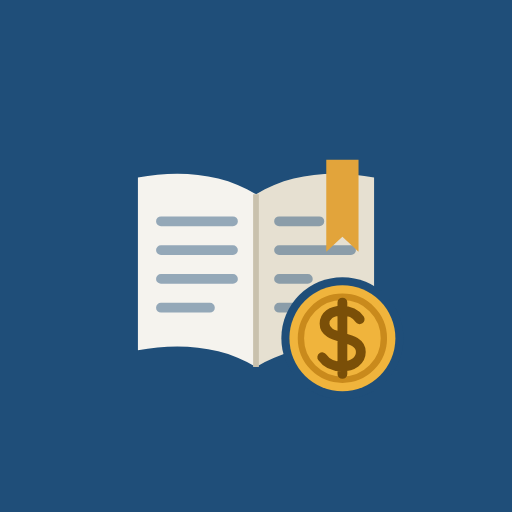
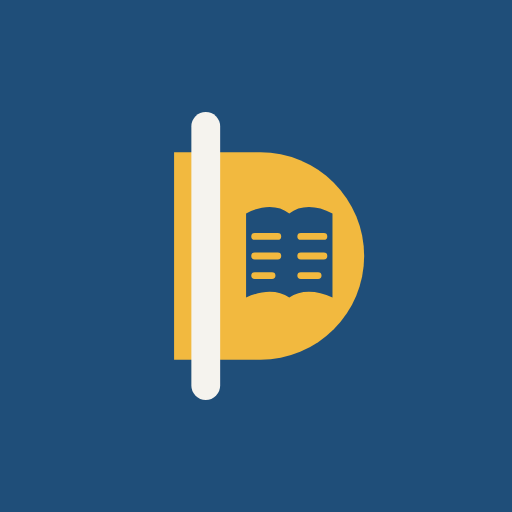
Daftar Ousnou 1.2.0 : nouvelle identité, monogramme D (livre ouvert dans le D, trait du $ qui le traverse) pour l'icône, mot-symbole D + « aftar » dans l'en-tête

Changed region(s): [[0.25, 0.2188, 0.7812, 0.7812]]

diff --git a/app/index.html b/app/index.html
@@ -262,9 +262,9 @@ header .ctl>.btn,header .ctl>.devsel,header .ctl .expmenu>.btn{height:44px;displ
 }
 /* logo */
 h1.titre{display:flex;align-items:center;gap:10px}
-.logo{width:40px;height:40px;border-radius:999px;flex:none}
-/* nom de l'application : logo collé au nom en lettres dorées, ensemble dans une pastille arrondie aux couleurs du logo (identique en mode sombre) */
-.nomapp{display:inline-flex;align-items:center;gap:8px;padding:3px 18px 3px 3px;border-radius:999px;background:linear-gradient(180deg,#26598a,#1f4e79);color:#f2b93f;font-weight:700;letter-spacing:.03em;line-height:1.25;box-shadow:inset 0 0 0 1.5px #c98a1c,0 1px 3px rgba(0,0,0,.18)}
+.motd{height:1.04em;width:auto;flex:none;margin-right:.02em;vertical-align:-.14em;overflow:visible}
+/* mot-symbole « Daftar » : le D monogramme (D + livre + trait du $) suivi de « aftar » en lettres dorées, dans une pastille arrondie aux couleurs du logo (identique en mode sombre). L'icône, elle, est le monogramme seul. */
+.nomapp{display:inline-block;white-space:nowrap;font-size:1.3em;padding:2px 18px 4px 12px;border-radius:999px;background:linear-gradient(180deg,#26598a,#1f4e79);color:#f2b93f;font-weight:700;letter-spacing:.03em;line-height:1.25;box-shadow:inset 0 0 0 1.5px #c98a1c,0 1px 3px rgba(0,0,0,.18)}
 /* journal : niveau de dépense de chaque jour (vert bas, jaune moyen, rouge élevé), écrit en plus de la couleur */
 :root{--jb:#256940;--jb-bg:#e7f3eb;--jm:#8a5600;--jm-bg:#fbf0d6;--jh:#b4362b;--jh-bg:#f9e2de}
 @media (prefers-color-scheme:dark){:root:not([data-theme="light"]){--jb:#6cc08f;--jb-bg:#1d3326;--jm:#e0b058;--jm-bg:#3a3020;--jh:#ef7a6b;--jh-bg:#3e2420}}
@@ -480,7 +480,7 @@ tr.solde td{color:var(--muted)}
 
 <main class="wrap" id="contenu">
   <header>
-    <h1 class="titre"><span class="nomapp"><img src="daftar-192.png" alt="" class="logo" width="40" height="40">Daftar</span></h1>
+    <h1 class="titre"><span class="nomapp" role="img" aria-label="Daftar"><svg class="motd" viewBox="16 6 36 52" aria-hidden="true" focusable="false"><path d="M17 14h15a18 18 0 0 1 0 36H17z" fill="#f2b93f"/><path d="M29.5 24.6c2.8-1.5 5.6-1.5 7.5 0v14.6c-1.9-1.3-4.7-1.3-7.5 0zM37 24.6c1.9-1.5 4.7-1.5 7.5 0v14.6c-2.8-1.3-5.6-1.3-7.5 0z" fill="#1f4e79"/><path d="M31 28.6h4M31 32h4M31 35.4h3M39 28.6h4M39 32h4M39 35.4h3" stroke="#f2b93f" stroke-width="1.2" stroke-linecap="round"/><rect x="20" y="7" width="5" height="50" rx="2.5" fill="#f5f3ee"/></svg><span aria-hidden="true">aftar</span></span></h1>
     <div class="ctl">
       <button id="syncBtn" class="btn ghost syncpill" type="button" hidden aria-live="polite"></button>
       <select id="devise" class="devsel" aria-label="Devise d'affichage" title="Devise d'affichage"></select>
@@ -902,7 +902,7 @@ function setProgrammees(l){PROGS=(Array.isArray(l)?l:[]).map(x=>({...x,ignorees:
 const PERIODES={1:'chaque mois',2:'tous les 2 mois',3:'chaque trimestre',6:'chaque semestre',12:'chaque année'};
 const TYPES_EVT={mariage:'Mariage',bapteme:'Baptême',circoncision:'Circoncision',funerailles:'Funérailles',fete:'Fête','voyage-tourisme':'Voyage (tourisme)','voyage-mission':'Voyage (mission)','voyage-vacances':'Voyage (vacances)',sante:'Santé',projet:'Projet',autre:'Autre'};
 /* Nature d'une opération : s = sens sur le compte (+1 entrée, −1 sortie, 0 virement) */
-const VERSION_APP='Ousnou 1.1.3';   // nom et numéro de version (même valeur que VERSION / VERSION_NOM dans serveur.py)
+const VERSION_APP='Ousnou 1.2.0';   // nom et numéro de version (même valeur que VERSION / VERSION_NOM dans serveur.py)
 const NAT={depense:{l:'Dépense',s:-1},revenu:{l:'Revenu',s:1},virement:{l:'Virement',s:0},pret:{l:'Prêt accordé',s:-1},remboursement:{l:'Remboursement reçu',s:1},investissement:{l:'Investissement',s:-1}};
 const TYPES_CPT={especes:'Espèces',courant:'Compte courant',epargne:'Épargne',carte:'Carte prépayée',mobile:'Mobile money'};
 const MOTS_REVENU=['salaire','salary','prime','revenu','interet','honoraire','indemnite','bourse','vacation','perdiem','per diem','prodes','frais de mission','consultance','jury','soutenance','seminaire','atelier'];

diff --git a/app/sw.js b/app/sw.js
@@ -9,7 +9,7 @@
    figée au jour de l'installation : hors ligne, le téléphone montrait une vieille version (sans les icônes).
    Si l'ordinateur ne répond pas (éteint, Tailscale coupé), on n'attend pas plus de DELAI ms avant de
    servir le cache (la page) ; les icônes et le tableur sont servis du cache sans attendre. La réponse du réseau, si elle arrive plus tard, met quand même le cache à jour. */
-const CACHE = 'appya-v8';
+const CACHE = 'appya-v9';
 const DELAI = 3000;
 // chemins relatifs au dossier du service : '/' sur l'ordinateur, '/Daftar/' sur GitHub Pages
 const BASE = new URL('./', self.location).pathname;

diff --git a/serveur.py b/serveur.py
@@ -39,7 +39,7 @@ from http.cookies import SimpleCookie
 from http.server import SimpleHTTPRequestHandler, ThreadingHTTPServer
 from urllib.parse import parse_qs, urlparse
 
-VERSION = "1.1.3"
+VERSION = "1.2.0"
 VERSION_NOM = "Ousnou"   # nom de la version (même valeur que VERSION_APP dans app/index.html)
 RACINE = os.path.dirname(os.path.abspath(__file__))
 APP = os.path.join(RACINE, "app")
